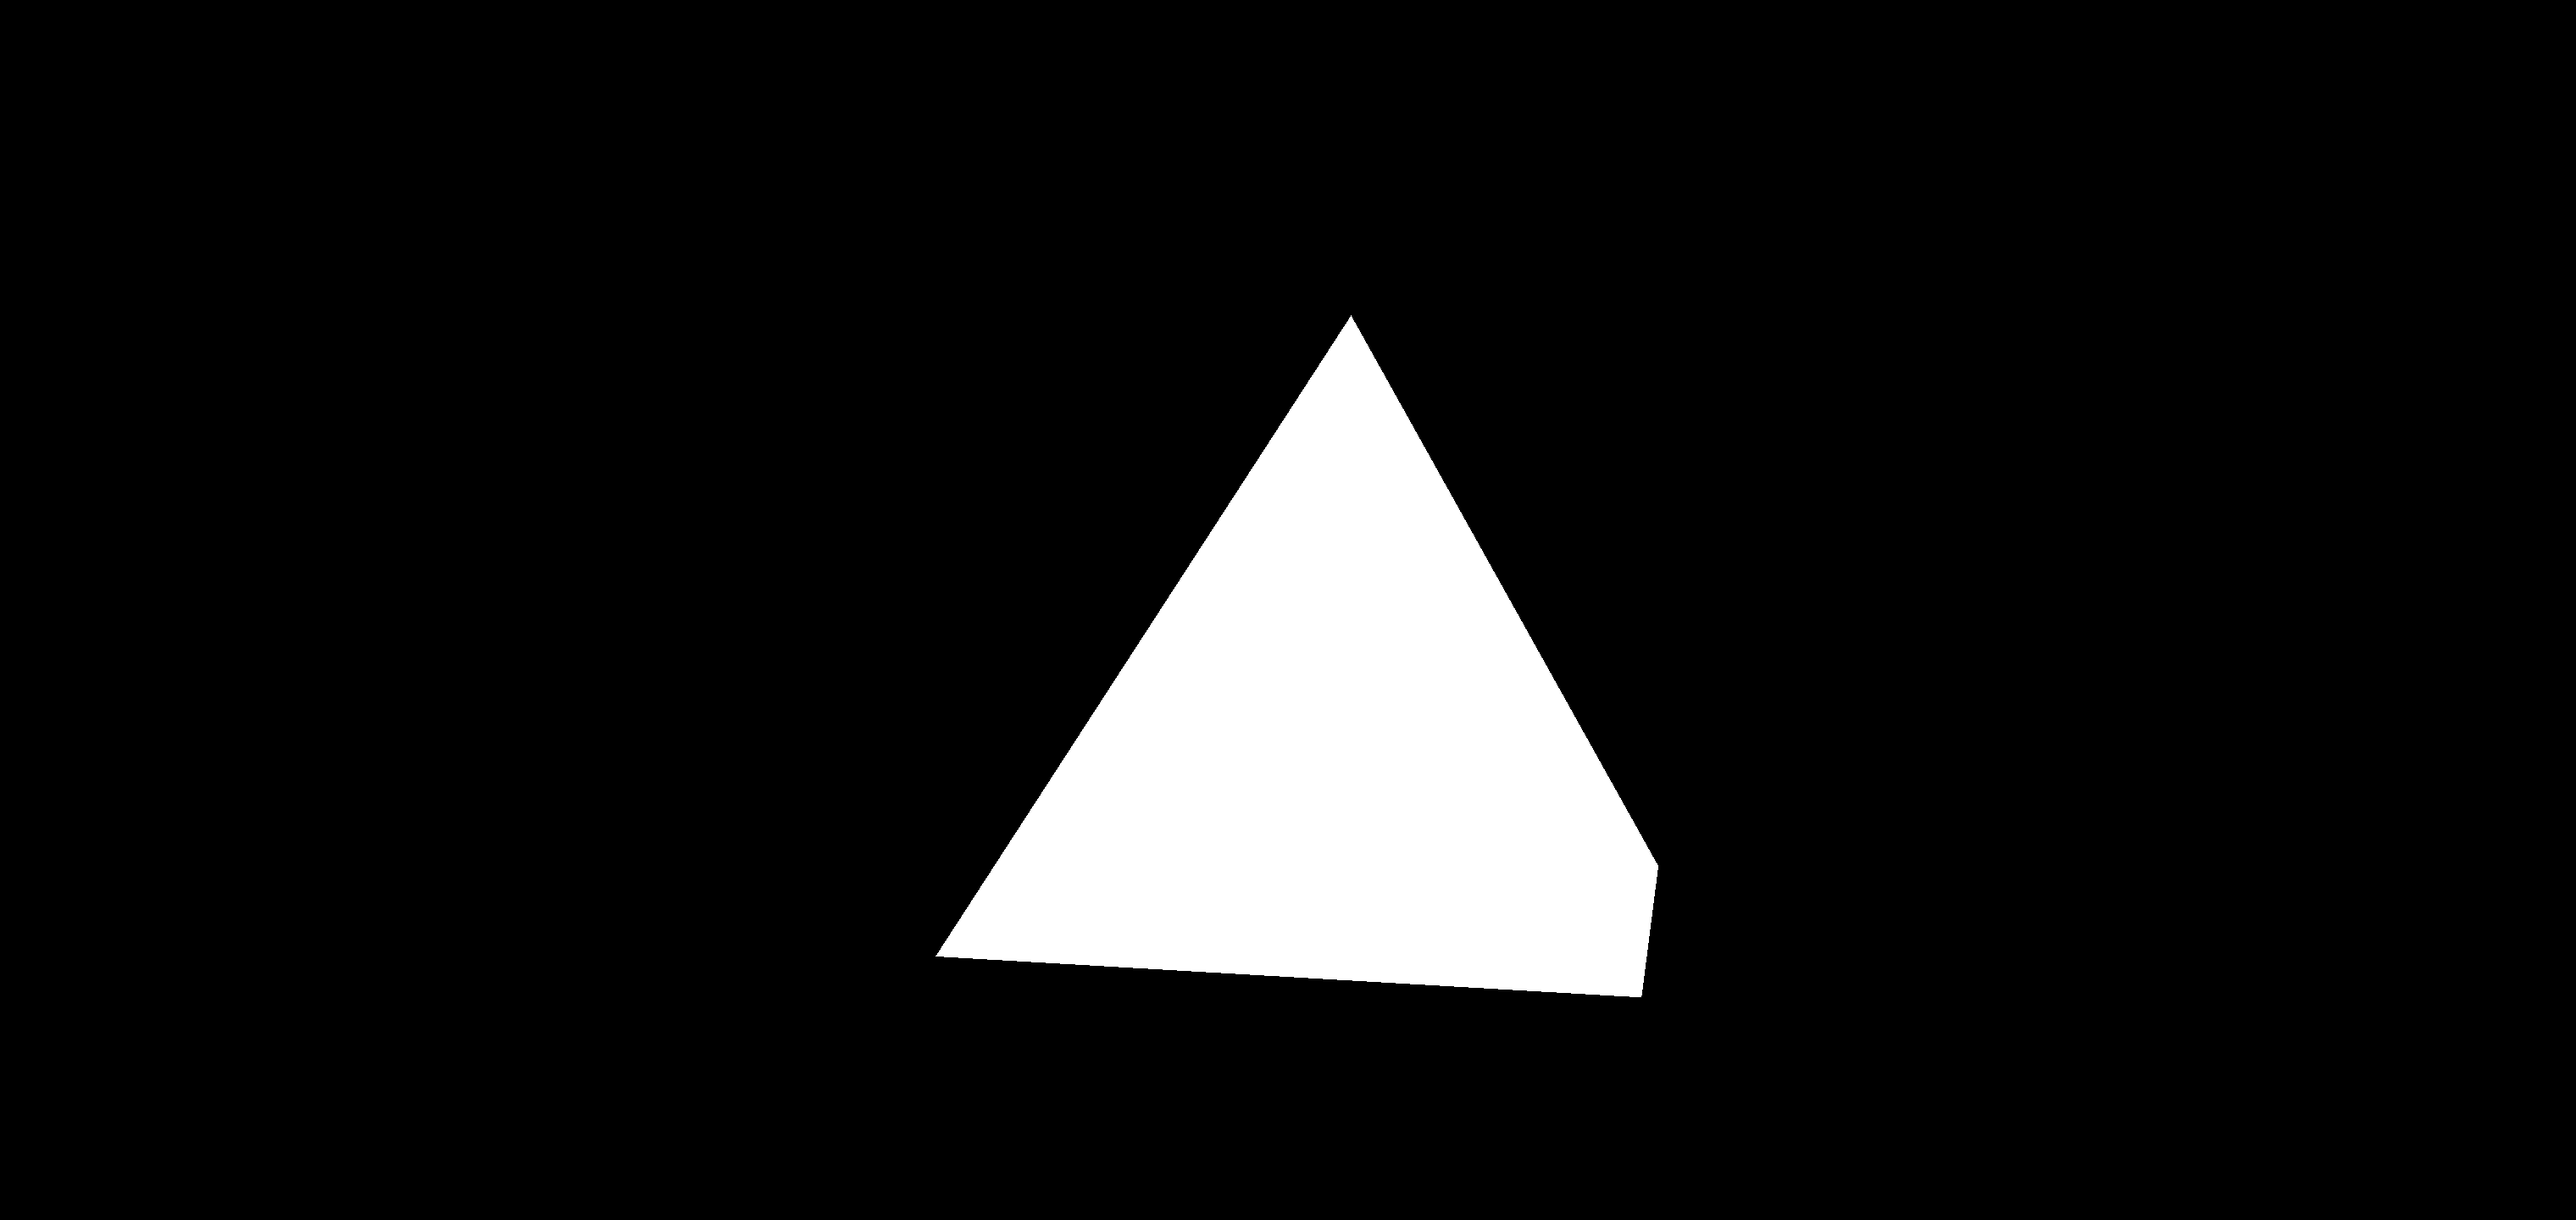
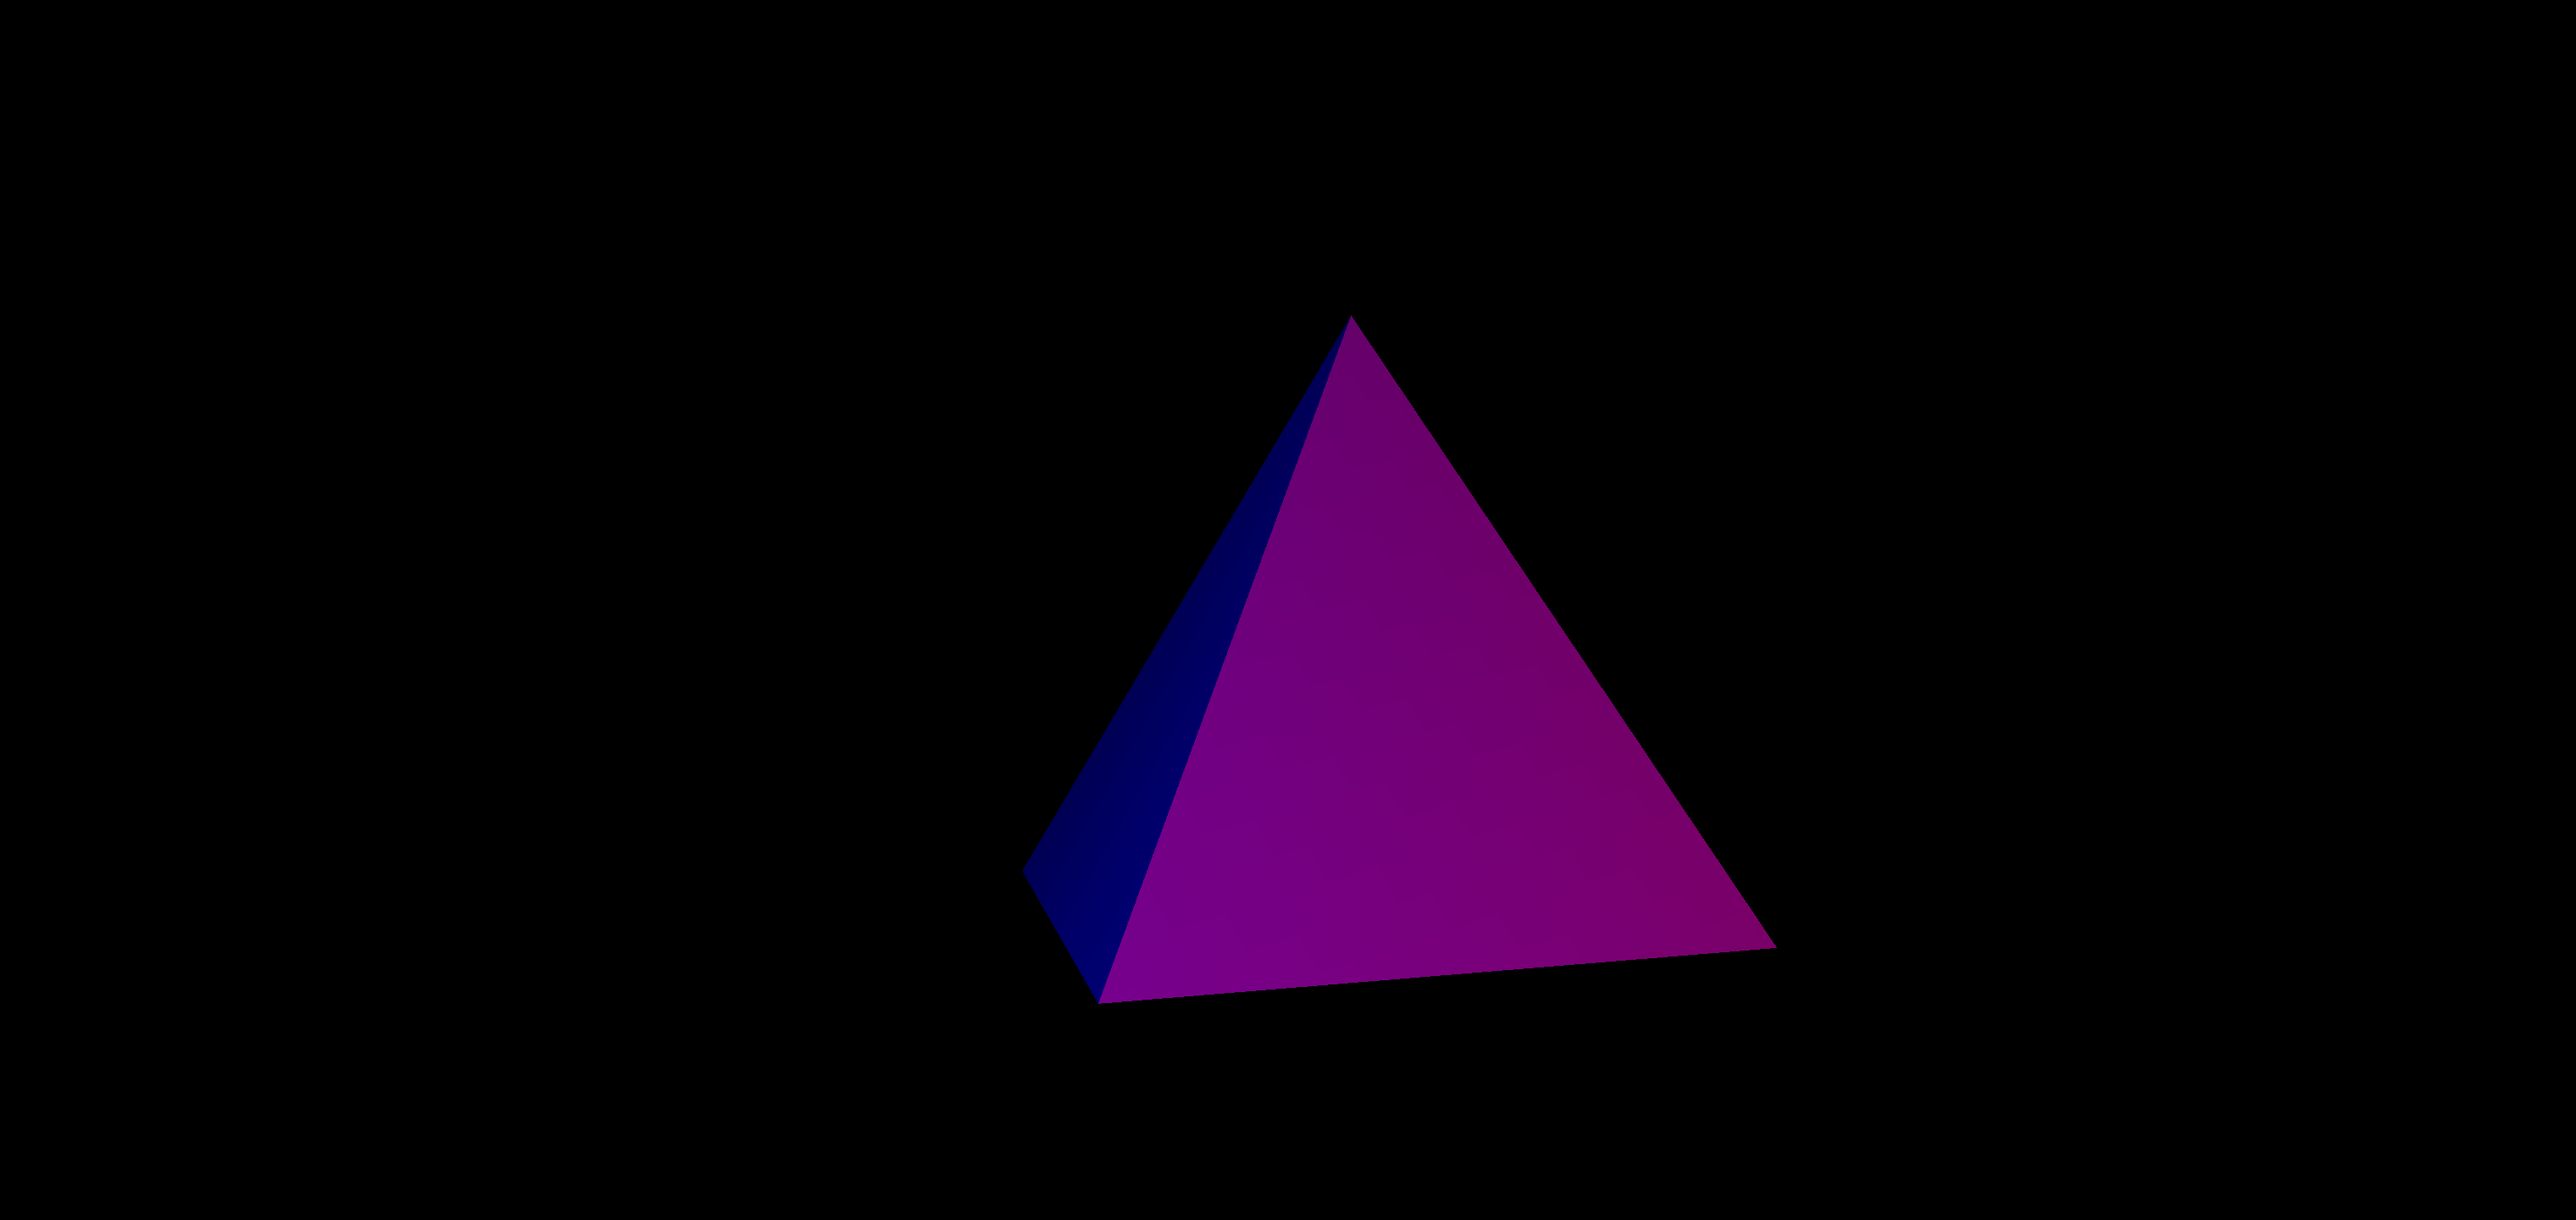
📱[android] two lights on pyramid

Changed region(s): [[0.3438, 0.25, 0.6875, 0.8438]]

diff --git a/03-Android/01-ProgrammablePipeline/17-TwoLightsOnPyramid/app/src/main/java/com/ru7w1k/twolightsonpyramid/GLESView.java b/03-Android/01-ProgrammablePipeline/17-TwoLightsOnPyramid/app/src/main/java/com/ru7w1k/twolightsonpyramid/GLESView.java
@@ -175,7 +175,6 @@ public class GLESView extends GLSurfaceView implements GLSurfaceView.Renderer, O
             "uniform vec3 u_Ka; \n" +
             "uniform vec3 u_Kd; \n" +
             "uniform vec3 u_Ks; \n" +
-            "uniform vec3 u_Ks; \n" +
 
             "uniform float u_Shininess; \n" +
             "uniform vec4 u_LightPos[2]; \n" +
@@ -228,7 +227,7 @@ public class GLESView extends GLSurfaceView implements GLSurfaceView.Renderer, O
             GLES32.glGetShaderiv(vertexShaderObject, GLES32.GL_INFO_LOG_LENGTH, iInfoLogLength, 0);
             if (iInfoLogLength[0] > 0) {
                 szInfoLog = GLES32.glGetShaderInfoLog(vertexShaderObject);
-                System.out.println("RMC: Vertex Shader Compile Log: \n" + szInfoLog);
+                System.out.println("RMC: Vertex Shader Compile Log: " + szInfoLog);
                 uninitialize();
                 System.exit(0);
             }
@@ -263,7 +262,7 @@ public class GLESView extends GLSurfaceView implements GLSurfaceView.Renderer, O
             GLES32.glGetShaderiv(fragmentShaderObject, GLES32.GL_INFO_LOG_LENGTH, iInfoLogLength, 0);
             if (iInfoLogLength[0] > 0) {
                 szInfoLog = GLES32.glGetShaderInfoLog(fragmentShaderObject);
-                System.out.println("RMC: Fragment Shader Compile Log: \n" + szInfoLog);
+                System.out.println("RMC: Fragment Shader Compile Log: " + szInfoLog);
                 uninitialize();
                 System.exit(0);
             }
@@ -291,7 +290,7 @@ public class GLESView extends GLSurfaceView implements GLSurfaceView.Renderer, O
             GLES32.glGetProgramiv(shaderProgramObject, GLES32.GL_INFO_LOG_LENGTH, iInfoLogLength, 0);
             if (iInfoLogLength[0] > 0) {
                 szInfoLog = GLES32.glGetProgramInfoLog(shaderProgramObject);
-                System.out.println("RMC: Program Compile Log: \n" + szInfoLog);
+                System.out.println("RMC: Program Compile Log: " + szInfoLog);
                 uninitialize();
                 System.exit(0);
             }
@@ -435,17 +434,23 @@ public class GLESView extends GLSurfaceView implements GLSurfaceView.Renderer, O
 
         //declaration of matrices
         float[] translateMatrix = new float[16];
+        float[] rotateMatrix = new float[16];
         float[] modelMatrix = new float[16];
         float[] viewMatrix = new float[16];
 
         // intialize above matrices to identity
         Matrix.setIdentityM(translateMatrix, 0);
+        Matrix.setIdentityM(rotateMatrix, 0);
         Matrix.setIdentityM(modelMatrix, 0);
         Matrix.setIdentityM(viewMatrix, 0);
 
         // translation transformation
-        Matrix.translateM(translateMatrix, 0, 0.0f, 0.0f, -3.0f);
-        modelMatrix = translateMatrix;
+        Matrix.translateM(translateMatrix, 0, 0.0f, 0.0f, -5.0f);
+        Matrix.rotateM(rotateMatrix, 0, rotateMatrix, 0, anglePyramid, 0.0f, 1.0f, 0.0f);
+
+        Matrix.multiplyMM(modelMatrix, 0,
+            translateMatrix, 0,
+            rotateMatrix, 0);
 
         // send necessary to shader in respective uniforms
         GLES32.glUniformMatrix4fv(mUniform, 1, false, modelMatrix, 0);
